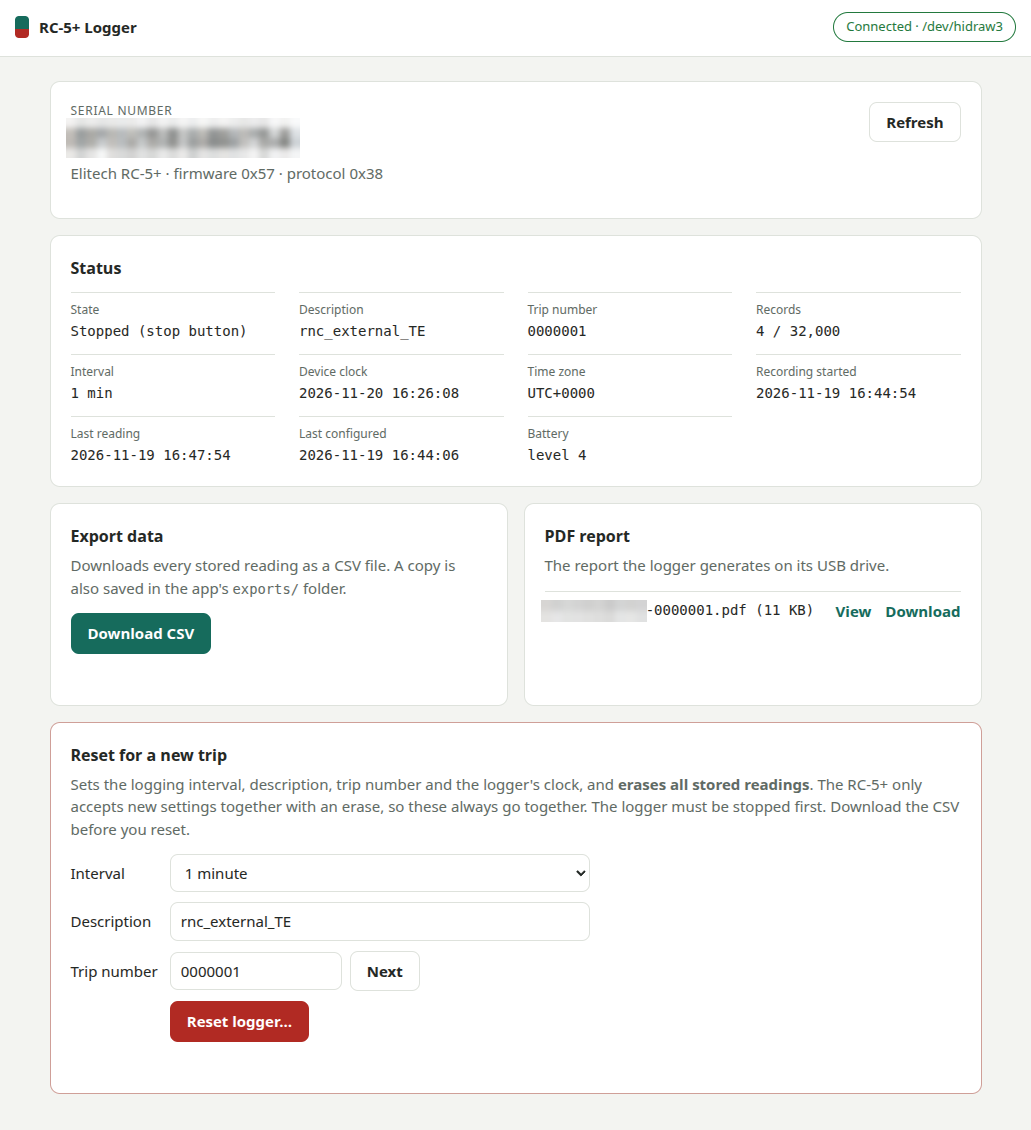
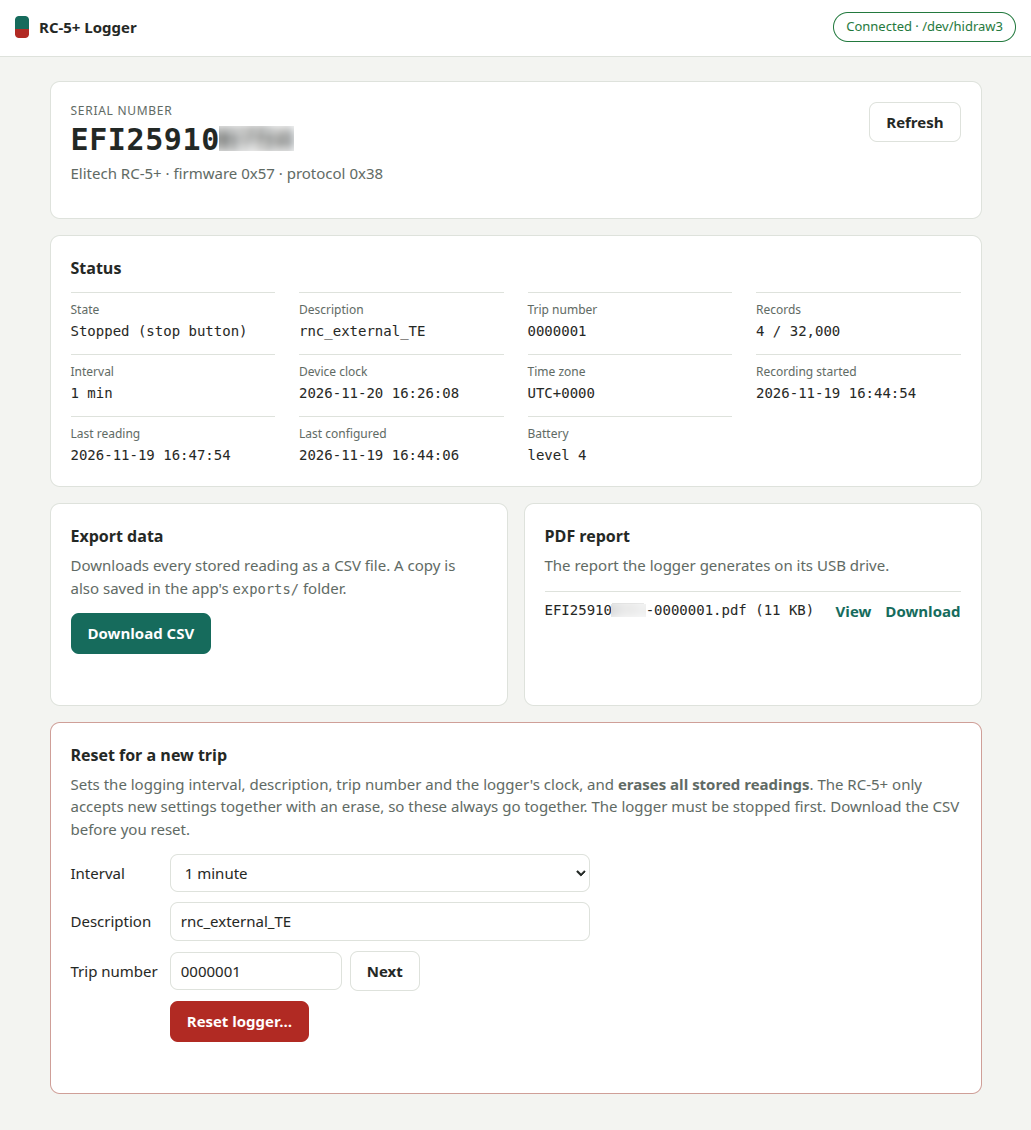
README: use the supplied screenshot with a 40% thumbnail
- docs/images/rc5plus-app.png: replaced with the supplied screenshot
  (the end of the serial number is blurred)
- docs/images/rc5plus-app-thumb.png (new): the same image at 40%
  (412 x 452), shown after the intro bullet points and linking to the
  full-size image
- caption now says the serial number is partly blurred

Changed region(s): [[0.0621, 0.0929, 0.2793, 0.1549], [0.5276, 0.5265, 0.6208, 0.5575]]

diff --git a/README.md b/README.md
@@ -1,6 +1,6 @@
 <!--
   File:    README.md
-  Version: 1.8.1
+  Version: 1.8.2
   Project: rc5plus-app — Bun web app for the Elitech RC-5+ temperature logger
 -->
 
@@ -13,9 +13,9 @@ A Bun web app for the **Elitech RC-5+** USB temperature logger on Linux. No Elit
 - Lets you view and download the PDF report from the logger's USB drive
 - Exports every reading to CSV
 
-<a href="docs/images/rc5plus-app.png"><img src="docs/images/rc5plus-app.png" alt="The rc5plus-app page for a stopped RC-5+ TE: serial number, status, CSV export, the logger's PDF report, and the reset form" width="480"></a>
+<a href="docs/images/rc5plus-app.png"><img src="docs/images/rc5plus-app-thumb.png" alt="The rc5plus-app page for a stopped RC-5+ TE: serial number, status, CSV export, the logger's PDF report, and the reset form" width="412"></a>
 
-*The app with an RC-5+ TE plugged in (serial number blurred). Click the image for full size.*
+*The app with an RC-5+ TE plugged in (serial number partly blurred). Click the image for full size.*
 
 The HID protocol is a JavaScript port of [python-elitech](https://github.com/pasccom/python-elitech) by Pascal Combes, which was reverse-engineered from the official software and tested on an RC-5+. Because it is a derived work, this app is licensed **GPL-3.0-or-later**.
 
